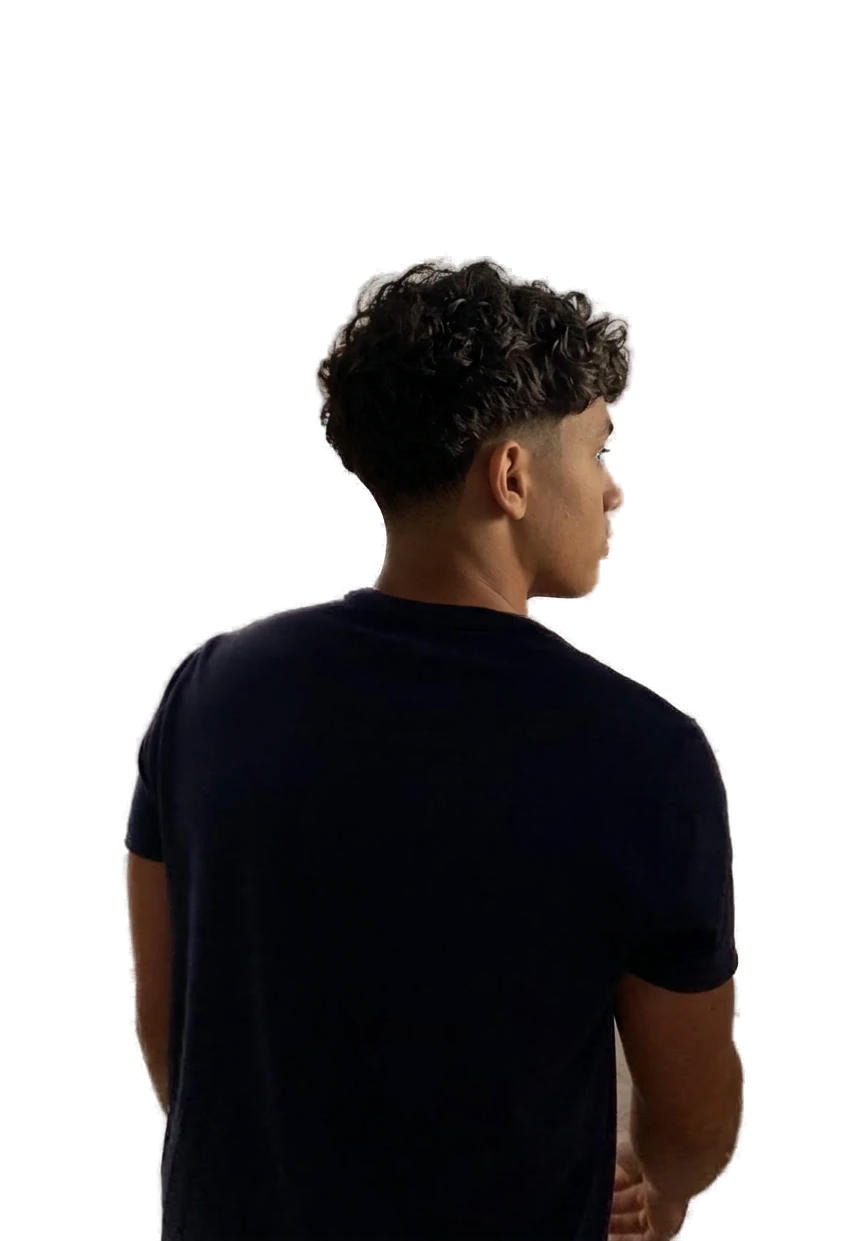
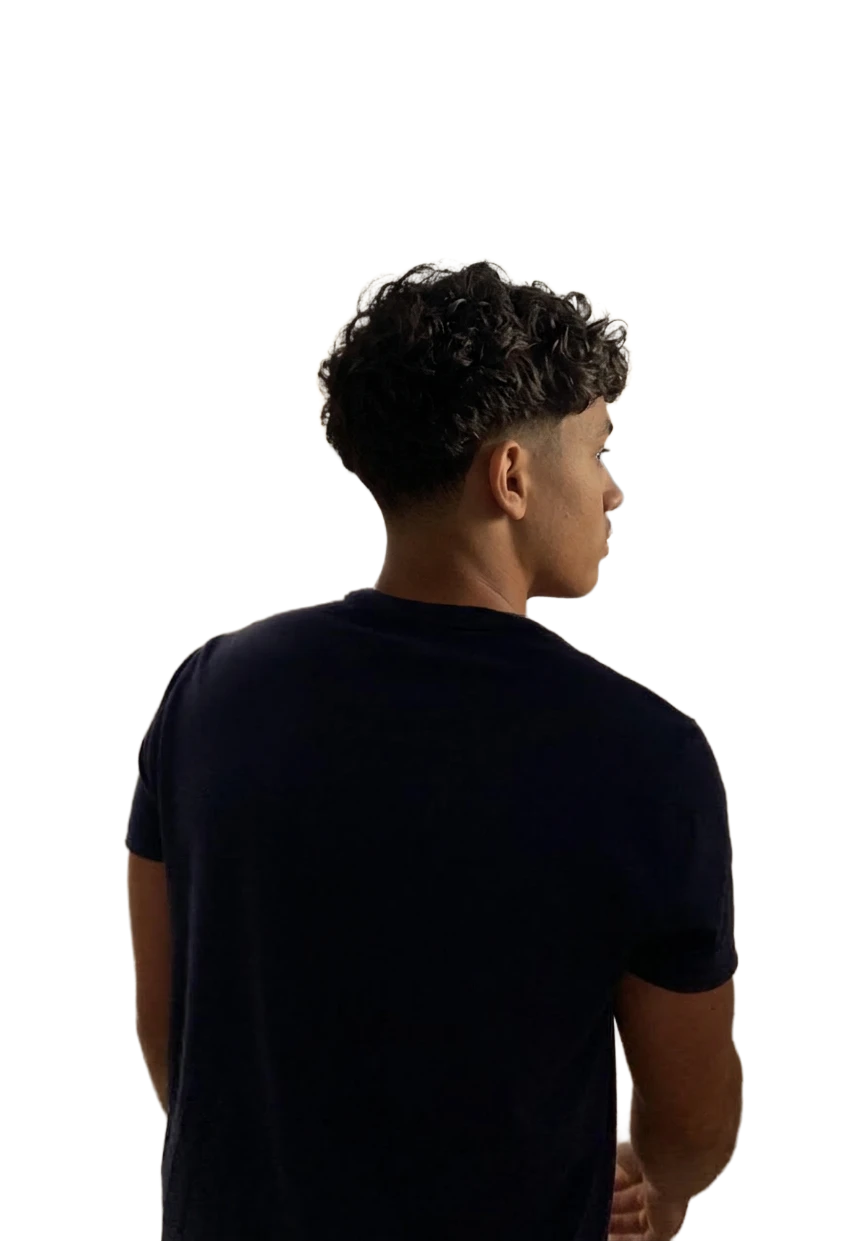
Hero : photo détourée fournie ; vraie couverture MK Café
Claude-Session: https://claude.ai/code/session_01PkMXv2YrJNL6SKy6N8Xkj4

diff --git a/src/components/MarqueeSection.tsx b/src/components/MarqueeSection.tsx
@@ -9,7 +9,7 @@ import FadeIn from './FadeIn';
 // Fred's own work: demo sites (live under /demos/...) and Airbnb video tours.
 const PROJECTS: FlexCarouselItem[] = [
   { src: '/showcase/fred-cafe.jpg', alt: 'Fred Café 3D coffee website', title: 'MK Cofee', subtitle: '3D website · Live demo ↗', href: 'https://mk-cofee.vercel.app/' },
-  { src: '/showcase/mk-cafe.jpg', alt: 'MK Café coffee website', title: 'MK Café', subtitle: 'Website · Live demo ↗', href: 'https://mk-cafe-kappa.vercel.app/' },
+  { src: '/showcase/mk-cafe.jpg', alt: 'MK Café coffee shop website', title: 'MK Café', subtitle: 'Coffee shop website · Live demo ↗', href: 'https://mk-cafe-kappa.vercel.app/' },
   { src: '/showcase/airbnb-1.jpg', video: '/showcase/airbnb-1.mp4', alt: 'Airbnb 4K video walkthrough', title: 'Modern Family Home', subtitle: 'Airbnb video tour' },
   { src: '/showcase/fred-croquetta.jpg', alt: 'Fred Croquetta 3D dog food website', title: 'MK Croquetta', subtitle: '3D website · Live demo ↗', href: 'https://mk-croquetta.vercel.app/' },
   { src: '/showcase/fred-plumbing.jpg', alt: 'Fred Plumbing booking app', title: 'Fred Plumbing', subtitle: 'Mobile app · Live demo ↗', href: '/demos/fred-plumbing/' },
